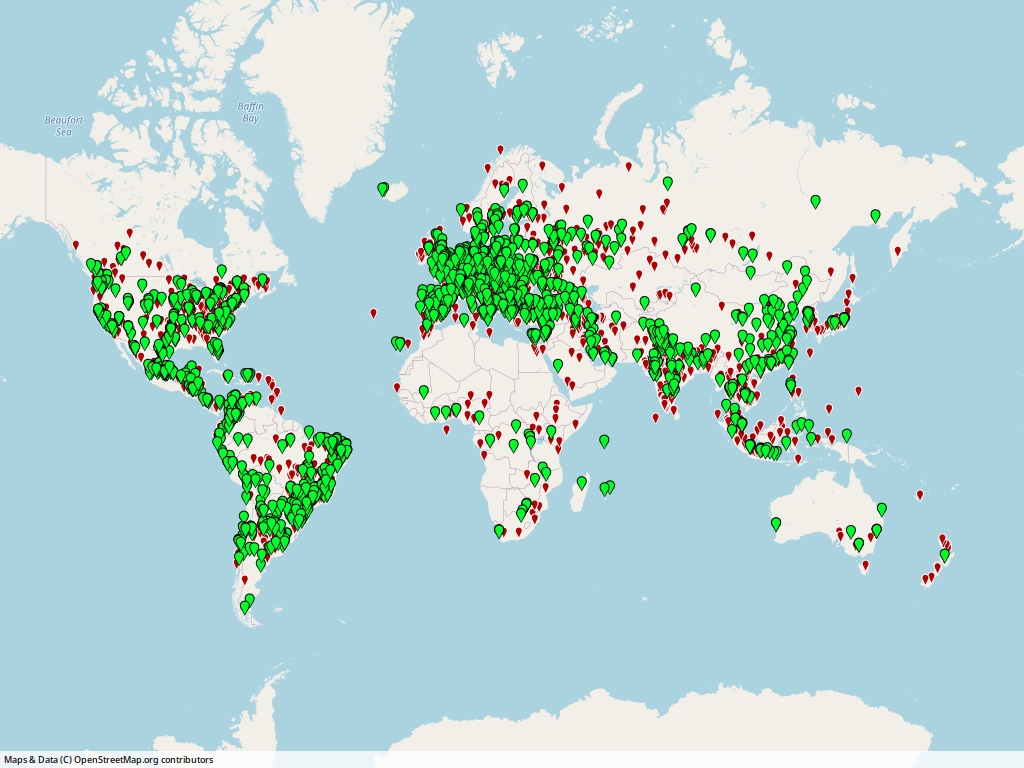
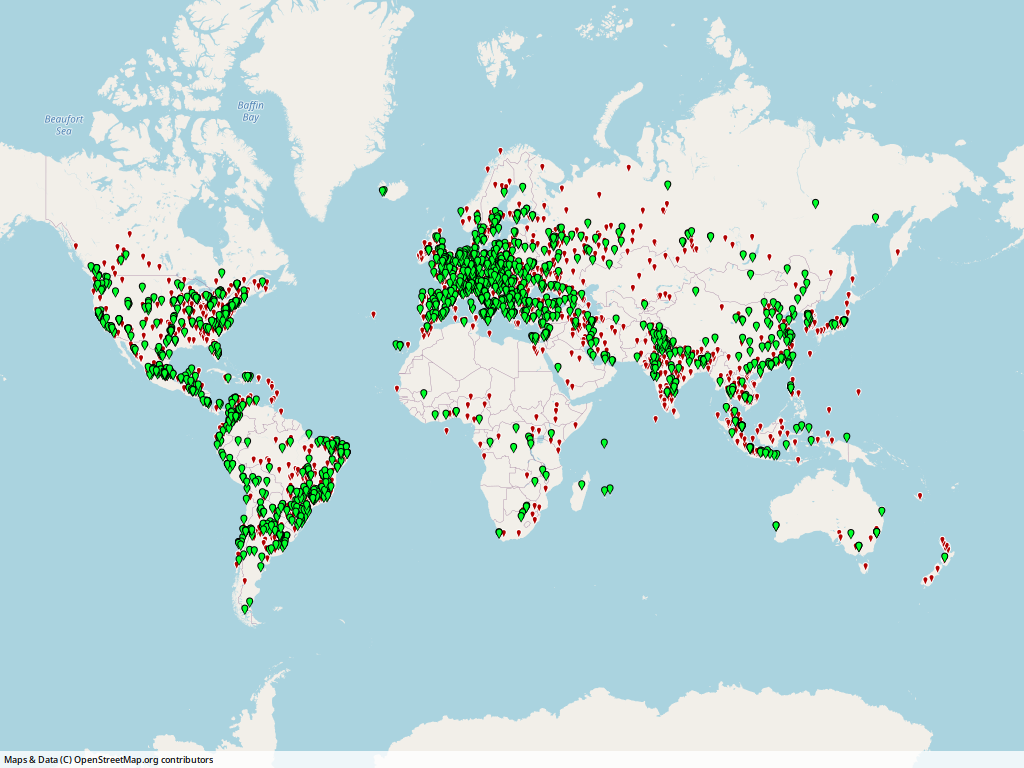
resizing markers

diff --git a/mapsgen.py b/mapsgen.py
@@ -20,7 +20,7 @@ def map200(geolocs):
             staticmaps.Marker(
                 marca200,
                 color=staticmaps.parse_color('#00ff29'),
-                size=7
+                size=4
             )
         )
 
@@ -38,7 +38,7 @@ def map300(geolocs):
         lon = float(loc[0].split(',')[1])
         marca300 = staticmaps.create_latlng(lat, lon)
         cntxt300.add_object(staticmaps.Marker(
-            marca300, color=staticmaps.parse_color('#b20101'), size=5))
+            marca300, color=staticmaps.parse_color('#b20101'), size=3))
 
     svg_image = cntxt300.render_svg(1920, 1080)
     with open(f"{selfpath}/maps/map_300.svg", "w", encoding="utf-8") as f:
@@ -60,7 +60,7 @@ def maps_gen(locs_200, locs_300):
             staticmaps.Marker(
                 marca3,
                 color=staticmaps.parse_color('#b20101'),
-                size=5
+                size=3
             )
         )
 
@@ -72,7 +72,7 @@ def maps_gen(locs_200, locs_300):
             staticmaps.Marker(
                 marca3,
                 color=staticmaps.parse_color('#00ff29'),
-                size=6
+                size=4
             )
         )
 
@@ -97,7 +97,7 @@ def maps_thumbs(locs_200, locs_300):
             staticmaps.Marker(
                 demo300,
                 color=staticmaps.parse_color('#b20101'),
-                size=4
+                size=3
             )
         )
 
@@ -109,7 +109,7 @@ def maps_thumbs(locs_200, locs_300):
             staticmaps.Marker(
                 demo200,
                 color=staticmaps.parse_color('#00ff29'),
-                size=5
+                size=3.5
             )
         )
 
